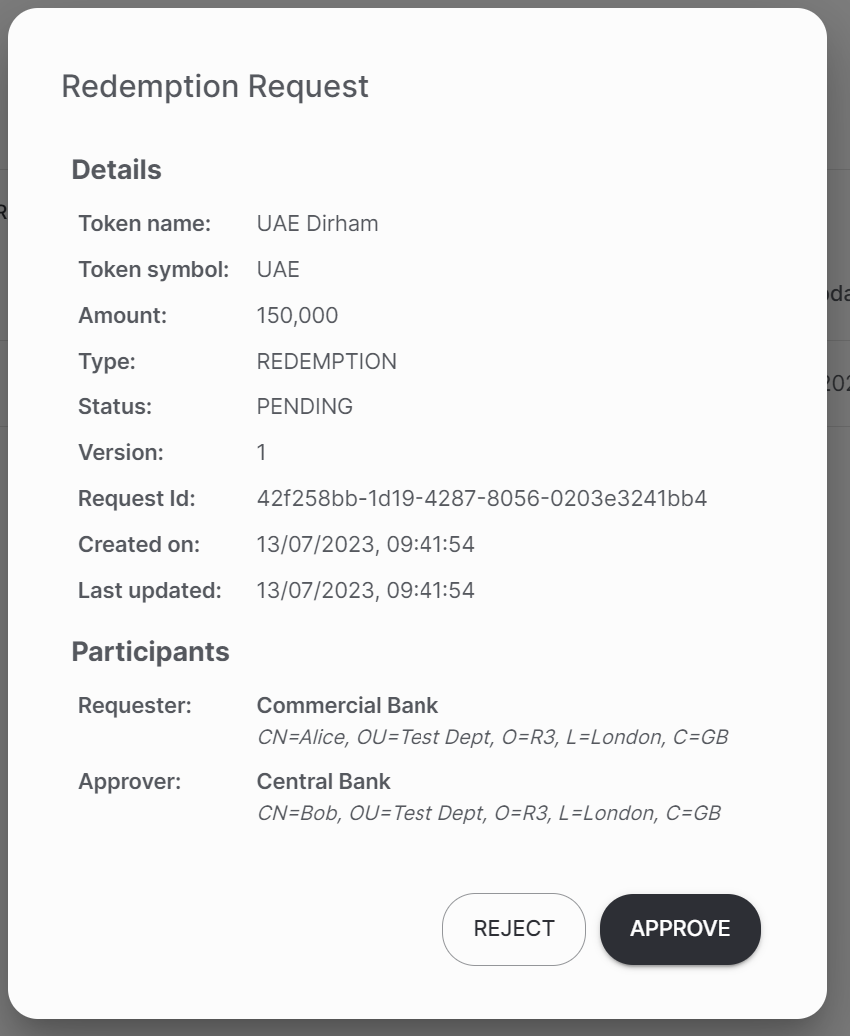
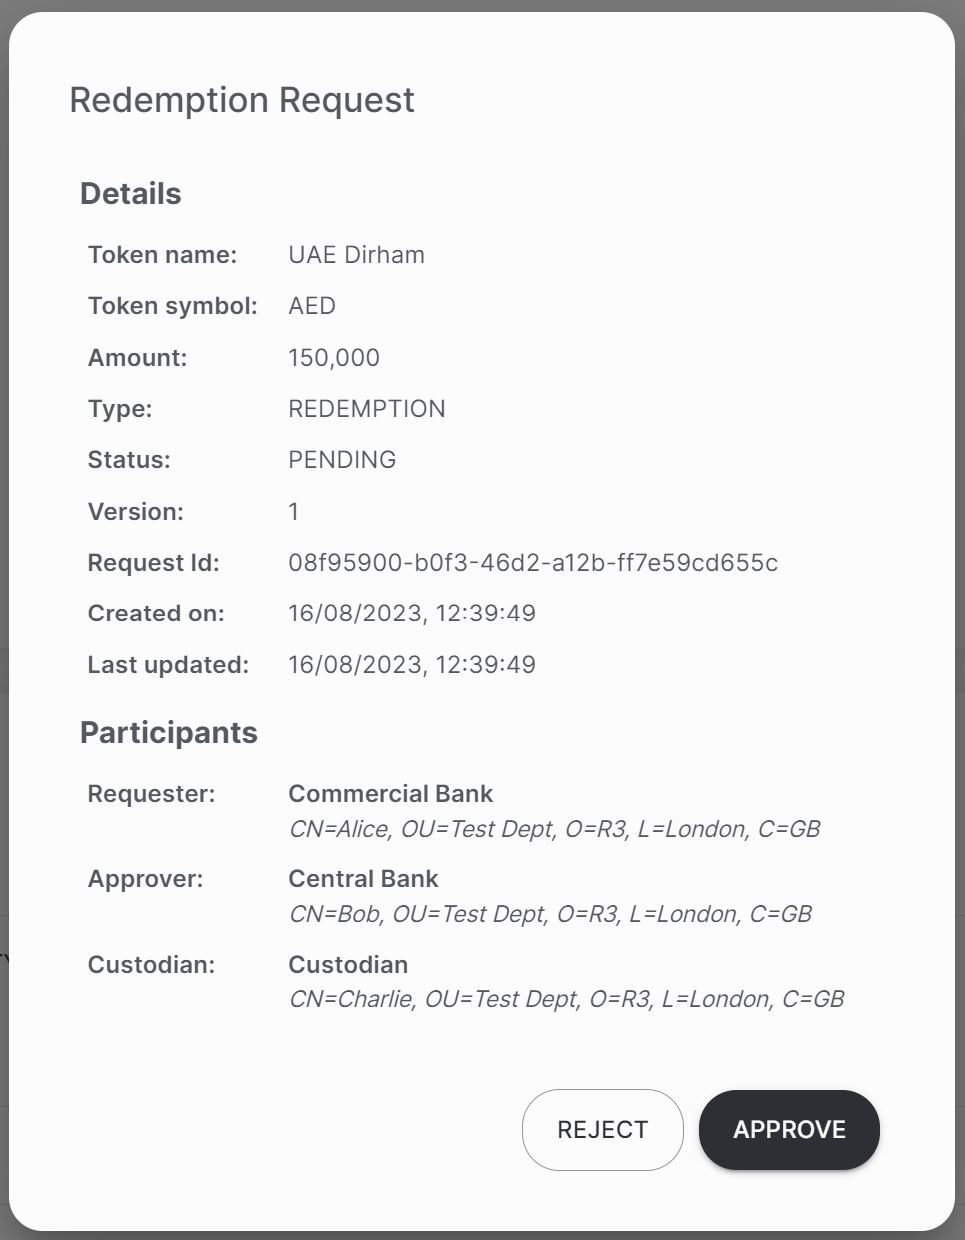
Updated to Redemptions after check against screens

diff --git a/content/en/tools/digital-currencies/redeeming/approving-or-rejecting-redemption-requests.md b/content/en/tools/digital-currencies/redeeming/approving-or-rejecting-redemption-requests.md
@@ -12,7 +12,7 @@ menu:
 title: "Approving or Rejecting Redemption Requests"
 ---
 
-An redemption request must be approved by both:
+A {{< tooltip >}}redemption{{< definitiondc term="redemption" >}}{{< /tooltip >}} request must be approved by both:
 
 * The issuer of the digital currency.
 * The custodian of the digital currency.
@@ -23,9 +23,9 @@ Once approved, the participant who [created the request]({{< relref "creating-re
 
 To approve or reject an redemption request (as either an issuer or a custodian):
 
-1. In the left-hand menu, click on **Redemption**.
+1. In the left-hand menu, click on **Redemptions**.
 
-   The following page is displayed:
+   The **Redemptions** page is displayed:
    
    {{< 
       figure
@@ -35,9 +35,9 @@ To approve or reject an redemption request (as either an issuer or a custodian):
 	  alt="Redemptions Page"
    >}}
 
-   The page shows the following panels related to redemptions:
+   The page shows the following panels:
 
-   * **Vault Balance**: A Corda vault is a database containing all data from the ledger relevant to a participant. For more information, see [the Vault topic]({{< relref "/en/platform/corda/5.0/developing-applications/ledger/vault/_index.md" >}}).
+   * **Vault Balances**: A Corda vault is a database containing all data from the ledger relevant to a participant. For more information, see [the Vault topic]({{< relref "/en/platform/corda/5.0/developing-applications/ledger/vault/_index.md" >}}).
    * **Redemption Requests:** Lists any existing issuance requests and their status.
   
   If you are logged in as the issuer, the panel will look like this:
@@ -62,8 +62,8 @@ To approve or reject an redemption request (as either an issuer or a custodian):
    
    For each redemption request, the following information is displayed:
    
-   * **Issuer Status:** Whether or not the issuer has approved the redemption request.
-   * **Custodian Status:** Whether or not the custodian has approved the redemption request.
+   * **Issuer Status:** APPROVED or PENDING, depending on if the issuer has approved the redemption request or not.
+   * **Custodian Status:** APPROVED or PENDING, depending on if the custodian has approved the redemption request or not.
    * **Token name:** The name of the token definition; normally the full name of the currency; for example, UAE Dirham.
    * **Token symbol:** A symbol for the token definition; normally the [three-letter ISO-4217 code](https://en.wikipedia.org/wiki/ISO_4217) for the currency; for example, *AED*.
    * **Amount:** The number of tokens to be redeemed.
@@ -72,7 +72,7 @@ To approve or reject an redemption request (as either an issuer or a custodian):
    
 2. Click the relevant redemption request.
 
-   The following dialog box is displayed:
+   The **Redemption Request** dialog box is displayed:
    
    {{< 
       figure
@@ -94,14 +94,14 @@ To approve or reject an redemption request (as either an issuer or a custodian):
    
 7. Click **Approve**.
 
-   The message **Successfully submitted your redemption request** is displayed:
+   The message **Successfully submitted your redemption approval request update** is displayed:
    
    {{< 
       figure
 	  src="images/successfully-submitted-redemption-approval-request-update-message.png"
       width=40%
-	  figcaption="'Successfully submitted your redemption request approval request update' Message"
-	  alt="'Successfully submitted your redemption request approval request update' Message"
+	  figcaption="'Successfully submitted your redemption approval request update' Message"
+	  alt="'Successfully submitted your redemption approval request update' Message"
    >}}
    
    The **Update Approval Request** flow begins and its progress can be checked in the pull-out flow tracker on the right-hand side of the screen: 

diff --git a/content/en/tools/digital-currencies/redeeming/completing-redemptions.md b/content/en/tools/digital-currencies/redeeming/completing-redemptions.md
@@ -12,7 +12,7 @@ menu:
 title: "Completing Redemptions"
 ---
 
-Once an [redemption request has been created]({{< relref "creating-redemption-requests.md" >}}) and then subsequently [approved by both the issuer and the custodian]({{< relref "approving-or-rejecting-redemption-requests.md" >}}), the redemption process can be completed by the participant who initiated it.
+Once an [redemption request has been created]({{< relref "creating-redemption-requests.md" >}}) and then subsequently [approved by both the issuer and the custodian]({{< relref "approving-or-rejecting-redemption-requests.md" >}}), the {{< tooltip >}}redemption{{< definitiondc term="redemption" >}}{{< /tooltip >}} process can be completed by the participant who initiated it.
 
 
 As the participant who created the original request:
@@ -29,7 +29,7 @@ As the participant who created the original request:
 	  alt="Redemptions Page"
    >}}
 
-   The **Redemption Requests** panel lists any redemption requests for tokens to the currently-logged-in issuer.
+   The **Redemption Requests** panel lists any redemption requests for tokens for the current participant.
 
 2. In the **Redemption Requests** pane, click on any request which has been approved by both the issuer and the custodian (that is, the values of **Issuer Status** and **Custodian Status** are both **Approved**).
 
@@ -49,7 +49,7 @@ As the participant who created the original request:
 
    {{< figure src="images/successfully-submitted-redemption-finalisation-request-message.png" width=50% figcaption="'Successfully submitted redemption finalisation request' Message" alt="'Successfully submitted redemption finalisation request' Message" >}}
 
-   The Redeem Token flow begins and its progress can be checked in the pull-out flow tracker on the right-hand side of the screen:
+   The **Redeem Token** flow begins and its progress can be checked in the pull-out flow tracker on the right-hand side of the screen:
 
    {{<
       figure
@@ -59,7 +59,7 @@ As the participant who created the original request:
 	  alt="Redeem Token - Flow Running"
    >}}
 
-   Once the Redeem Token flow completes, the message *Tokens have been redeemed successfully* is displayed:
+   Once the **Redeem Token** flow completes, the message **Tokens have been redeemed successfully** is displayed:
 
    {{<
       figure
@@ -71,7 +71,7 @@ As the participant who created the original request:
 
    The redemption request disappears from the **Redemption Requests** panel.
    
-   The vault balance of the requesting participant is updated to show the redemption:
+   The vault balance of the requesting participant is updated to show the number of tokens has been debited in accordance with the redemption:
    
    {{<
       figure
@@ -81,3 +81,4 @@ As the participant who created the original request:
 	  alt="Vault Balances Panel After Redemption"
    >}}
 
+   Similarly, the vault balance of the relevant issuer is updated to show the number of tokens has been increased in accordance with the redemption.

diff --git a/content/en/tools/digital-currencies/redeeming/_index.md b/content/en/tools/digital-currencies/redeeming/_index.md
@@ -13,10 +13,12 @@ title: "Working with Token Redemption"
 ---
 
 
-A participant, such as a commercial bank, can use redemption to exchange the tokens they possess for their collateral. For example, the participant may create a redemption request to redeem their tokens with a central bank if they require an end-of-day settlement in order to gain overnight interest on their collateral. 
+A participant, such as a commercial bank, can perform a *redemption*: exchange the tokens they possess for their collateral. For example, the participant may [create a redemption request]({{< relref "creating-redemption-requests.md" >}}) to redeem their tokens with a central bank if they require an end-of-day settlement in order to gain overnight interest on their collateral. 
 
-The participant will check their balance and [create a redemption request]({{< relref "creating-redemption-requests.md" >}}) by selecting the token definition they wish to redeem against.  This request is sent to the {{< tooltip >}}issuer{{< definitiondc term="issuer" >}}{{< /tooltip >}} and {{< tooltip >}}custodian{{< definitiondc term="custodian" >}}{{< /tooltip >}}. Depending on the token definition, the issuer will check the {{< tooltip >}}RTGS{{< definitiondc term="RTGS" >}}{{< /tooltip >}} balance off-ledger. If the collateral required to be redeem can be supported, the issuer and custodian will [approve the redemption request]({{< relref "approving-or-rejecting-redemption-requests.md" >}}). The custodian will then perform an off-ledger movement of collateral into the participant's RTGS account or bank account. Simultaneously, the tokens are moved from the participant's vault to the issuer's vault when the participant [completes the redemption]({{< relref "completing-redemptions.md" >}}).
+This redemption request is sent to both the {{< tooltip >}}issuer{{< definitiondc term="issuer" >}}{{< /tooltip >}} and {{< tooltip >}}custodian{{< definitiondc term="custodian" >}}{{< /tooltip >}}. Depending on the token definition, the issuer checks the {{< tooltip >}}RTGS{{< definitiondc term="RTGS" >}}{{< /tooltip >}} balance off-ledger. 
 
-The issuer then has the option to [burn (destroy) the tokens]({{< relref "../burning/_index.md" >}}).
+If the collateral required to be redeemed can be supported, the issuer and custodian [approve the redemption request]({{< relref "approving-or-rejecting-redemption-requests.md" >}}). The custodian then performs an off-ledger movement of collateral into the participant's RTGS account or bank account. Simultaneously, the tokens are moved from the participant's vault to the issuer's vault when the participant [completes the redemption]({{< relref "completing-redemptions.md" >}}).
+
+The issuer then has the option to [burn the tokens]({{< relref "../burning/_index.md" >}}).
 
 {{< childpages >}}

diff --git a/content/en/tools/digital-currencies/redeeming/creating-redemption-requests.md b/content/en/tools/digital-currencies/redeeming/creating-redemption-requests.md
@@ -12,6 +12,7 @@ menu:
 title: "Creating Redemption Requests"
 ---
 
+This topic describes how to create a {{< tooltip >}}redemption{{< definitiondc term="redemption" >}}{{< /tooltip >}} request.
 
 The following assumes you are logged in as an entity capable of creating an redemption request, such as a commercial bank, and that you possess tokens in your vault to redeem.
 
@@ -59,7 +60,7 @@ The following assumes you are logged in as an entity capable of creating an rede
 	  alt="'Successfully submitted an redemption request' message"
    >}}
    
-   The Request Redemptions flow begins and its progress can be checked in the pull-out flow tracker on the right-hand side of the screen:
+   The **Request Redemption** flow begins and its progress can be checked in the pull-out flow tracker on the right-hand side of the screen:
 
    {{< 
       figure
@@ -69,7 +70,7 @@ The following assumes you are logged in as an entity capable of creating an rede
 	  alt="Request Redemption - Flow Running"
    >}}
    
-   Once the **Request Tokens** flow finishes, the message **Your redemption request has been successfully created** is displayed:
+   Once the **Request Redemption** flow finishes, the message **Your redemption request has been successfully created** is displayed:
 
    {{< 
       figure

diff --git a/content/en/tools/digital-currencies/redeeming/viewing-redemption-requests.md b/content/en/tools/digital-currencies/redeeming/viewing-redemption-requests.md
@@ -12,7 +12,7 @@ menu:
 title: "Viewing Redemption Requests"
 ---
 
-To view the list of existing redemption requests for the current participant:
+To view the list of existing {{< tooltip >}}redemption{{< definitiondc term="redemption" >}}{{< /tooltip >}} requests for the current participant:
 
 1. In the left-hand menu, click on **Redemptions**.
 
@@ -28,8 +28,8 @@ To view the list of existing redemption requests for the current participant:
 
    For each redemption request, the following information is displayed:
 
-   * **Issuer Status:** Whether or not the issuer has approved the redemption request.
-   * **Custodian Status:** Whether or not the custodian has approved the redemption request.
+   * **Issuer Status:** APPROVED or PENDING, depending on if the issuer has approved the redemption request or not.
+   * **Custodian Status:** APPROVED or PENDING, depending on if the custodian has approved the redemption request or not.
    * **Token name:** The name of the token definition; normally the full name of the currency; for example, UAE Dirham.
    * **Token symbol:** A symbol for the token definition; normally the [three-letter ISO-4217 code](https://en.wikipedia.org/wiki/ISO_4217) for the currency; for example, *AED*.
    * **Amount:** The number of tokens to be redeemed.
